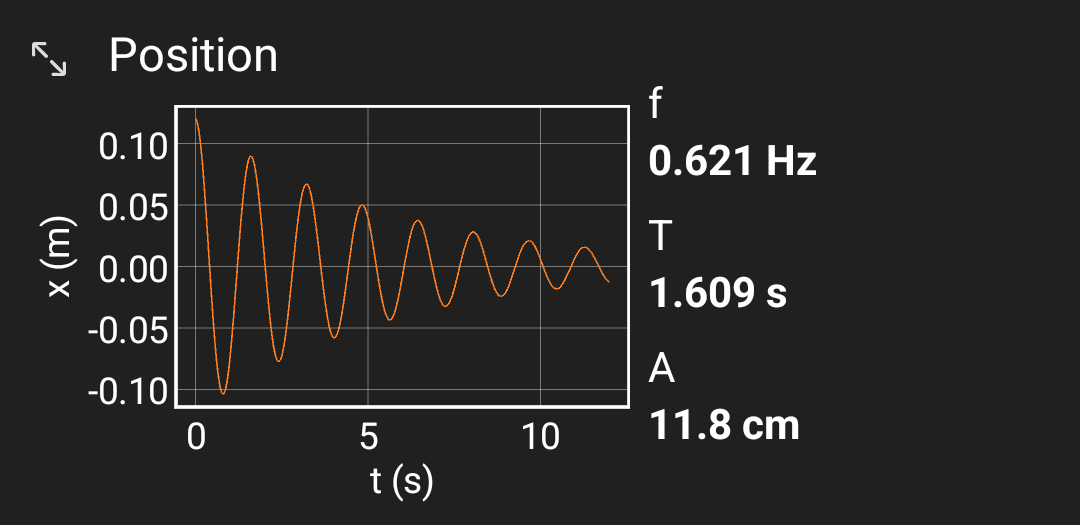
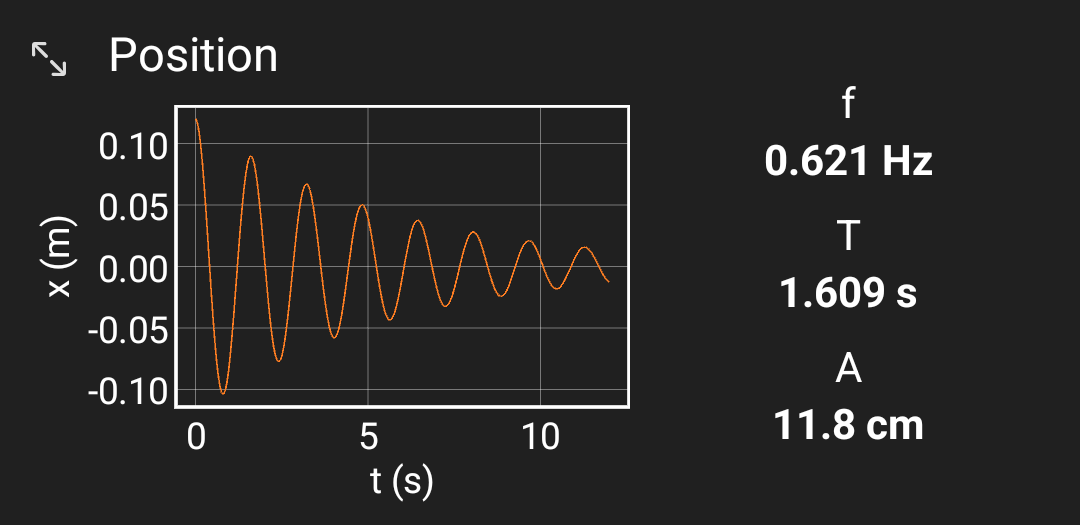
Screenshots: centre the values in the vertical example
They sat pressed against the graph next to them.

diff --git a/tools/screenshots/views.py b/tools/screenshots/views.py
@@ -305,9 +305,9 @@ def scenes():
         <input axis="y">x</input>
     </graph>
     <vertical weight="2" spacing="0.5">
-        <value label="f" unit="Hz" precision="3" verticalLayout="true"><input>f</input></value>
-        <value label="T" unit="s" precision="3" verticalLayout="true"><input>T</input></value>
-        <value label="A" unit="cm" precision="1" factor="100" verticalLayout="true"><input>A</input></value>
+        <value label="f" unit="Hz" precision="3" verticalLayout="true" align="center"><input>f</input></value>
+        <value label="T" unit="s" precision="3" verticalLayout="true" align="center"><input>T</input></value>
+        <value label="A" unit="cm" precision="1" factor="100" verticalLayout="true" align="center"><input>A</input></value>
     </vertical>
 </horizontal>
 """),
